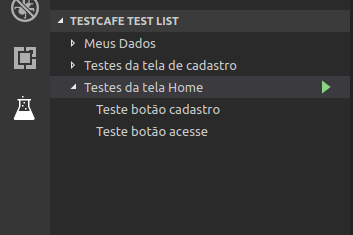
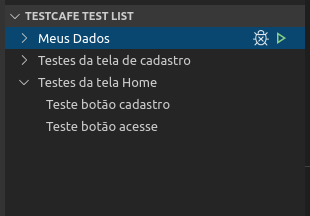
Update readme and changelog

diff --git a/README.md b/README.md
@@ -16,13 +16,18 @@ TestLatte allows you to debug your TestCafé tests on visual studio code.
 
 ![Navigate](./images/navigate.png)
 
-#### Debug your test or fixture clicking on the run icon.
+#### Debug or Run your test or fixture clicking on the debug icon or on the run icon.
+![Debug Test](./images/debug-test.png)
+
 
 ![Run Test](./images/run-test.png)
 
-#### Debug all tests clicking on the run all icon.
+#### Debug or Run all tests clicking on the debug all icon or on the run all icon.
 
-![Run Test](./images/run-all.png)
+![Debug All](./images/debug-all.png)
+
+
+![Run All](./images/run-all.png)
 
 
 ## Requirements

diff --git a/CHANGELOG.md b/CHANGELOG.md
@@ -1,5 +1,9 @@
 # Change Log
 
+## 1.2.0 - October 07, 2019
+- Added feature that allow run or debug tests.
+- Updated icons design.
+
 ## 1.1.4 - September 17, 2019
 - Changed extension icon format.
 
